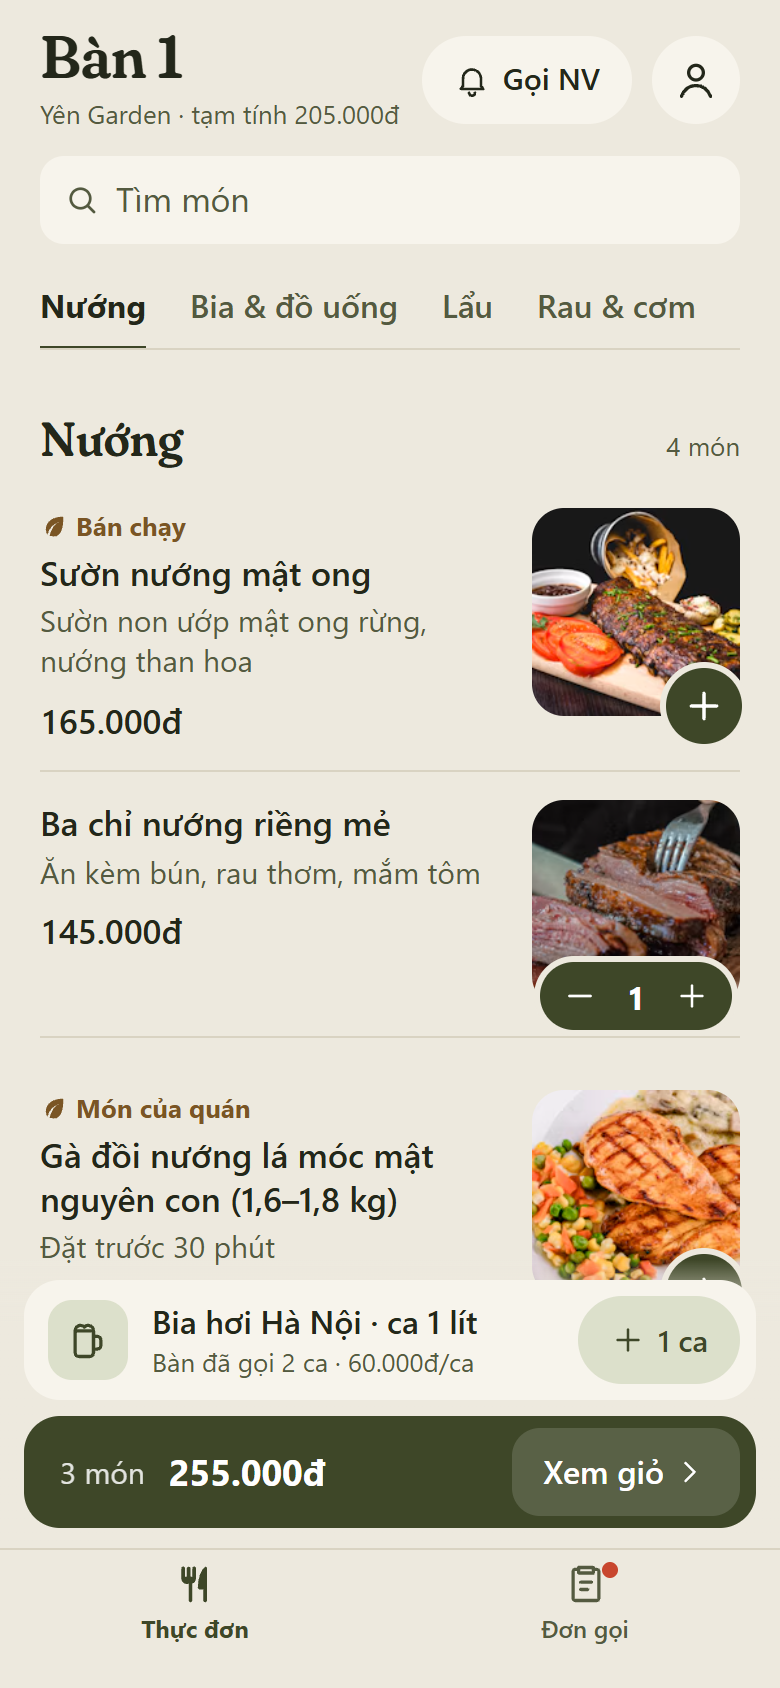
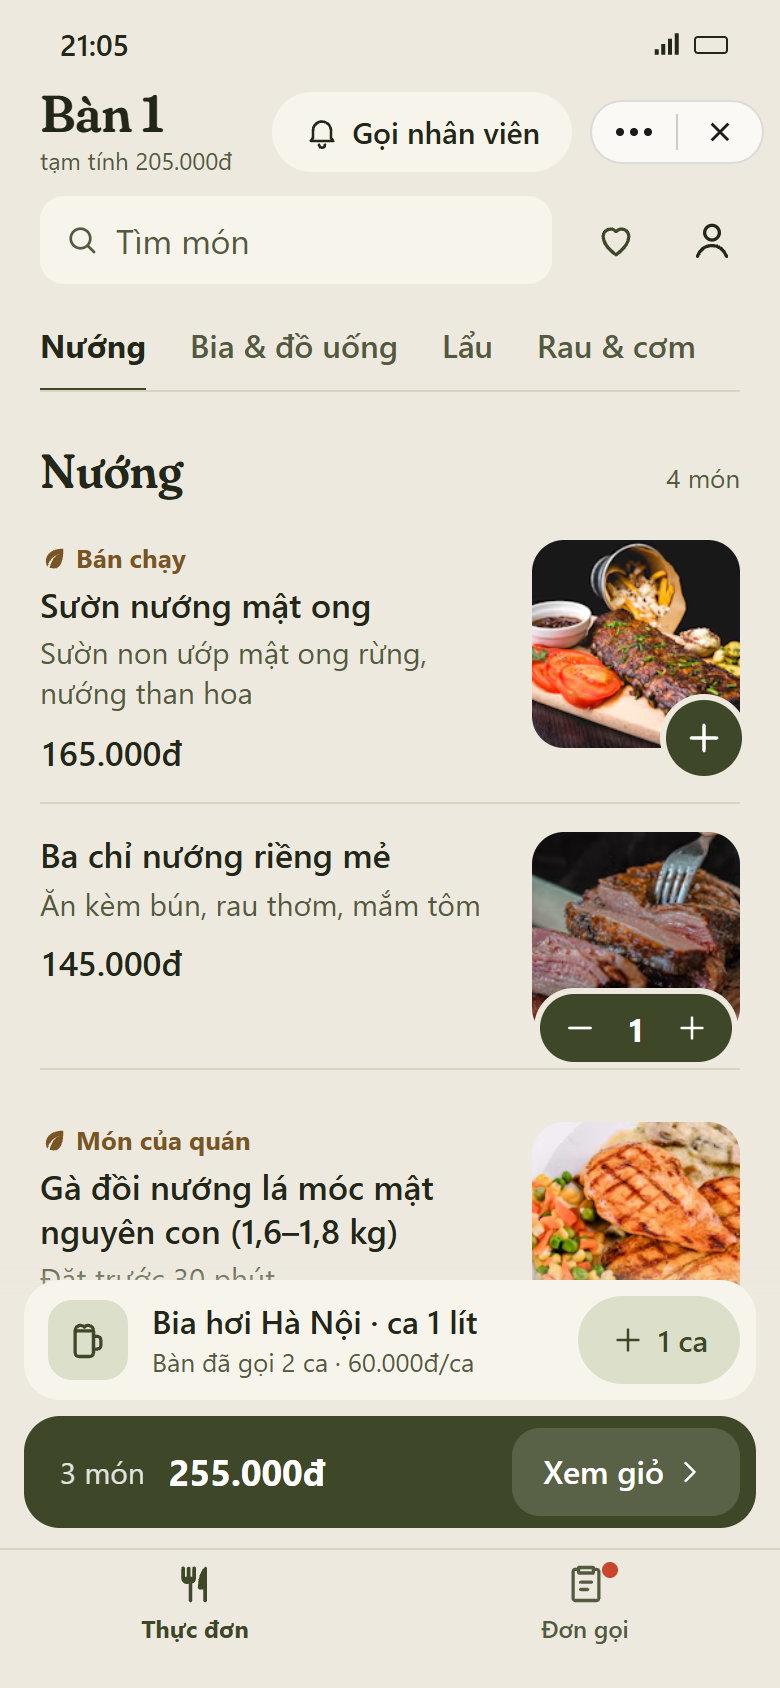
chore: ban ve HIG Yen Garden chua vung nut ... | X cua Zalo, tra lai nut Quan tam OA

diff --git a/docs/design/yen-garden/apple-hig/so-sanh.html b/docs/design/yen-garden/apple-hig/so-sanh.html
@@ -77,6 +77,27 @@
   .link { color: var(--accent); font-weight: 600; font-size: 15px; }
   .phone.night .link { color: var(--accent); }
 
+  /* Khung Zalo: thanh trạng thái máy (44) + cụm nút "··· | X" Zalo tự vẽ, không đổi được.
+     Vùng cấm: 96 px bên phải của hàng 44 px ngay dưới thanh trạng thái (như ZALO_CAPSULE_GAP trong app-toolbar.tsx). */
+  .sbar { position:absolute; top:0; left:0; right:0; height:44px; z-index: 9; display:flex; align-items:center; justify-content:space-between; padding: 0 26px 0 30px; font: 600 15px/1 system-ui, -apple-system, "Segoe UI", sans-serif; color: var(--ink); pointer-events:none; }
+  .sbar.light { color:#fff; text-shadow: 0 1px 2px #0006; }
+  .sbar .sig { display:flex; gap:5px; align-items:center; }
+  .sbar .sig i { display:block; width: 17px; height: 9px; border-radius: 2px; border: 1.5px solid currentColor; }
+  .capsule { position:absolute; z-index: 10; top: 50px; right: 8px; width: 87px; height: 32px; border-radius: 16px; background: rgba(255,255,255,.72); border: .5px solid rgba(0,0,0,.12); display:flex; align-items:center; color:#1b1b1b; }
+  .capsule span { flex:1; display:grid; place-items:center; height: 100%; }
+  .capsule span + span { border-left: .5px solid rgba(0,0,0,.18); height: 18px; }
+  .phone.night .capsule { background: rgba(40,40,40,.72); border-color: rgba(255,255,255,.14); color:#f2f2f2; }
+  .phone.night .capsule span + span { border-color: rgba(255,255,255,.25); }
+  .zone { display:none; position:absolute; z-index: 8; top: 44px; right: 0; width: 96px; height: 44px; outline: 1.5px dashed #C8462E; outline-offset: -2px; border-radius: 8px; pointer-events:none; }
+  .show-zone .zone { display:block; }
+  .r1 { height: 44px; display:flex; align-items:center; gap: 8px; padding-right: 84px; } /* 96 vùng Zalo trừ lề trang 20, cộng 8 khe */
+  .ib { width: 36px; height: 36px; border-radius: 50%; border: 0; background: transparent; color: var(--ink); display:grid; place-items:center; margin: -4px; padding: 0; } /* vùng chạm 44 nhờ lề âm */
+  .ib .ic { width: 22px; height: 22px; }
+  .ib.heart { color: var(--accent); }
+  .r2 { display:flex; align-items:center; gap: 8px; margin-top: 6px; }
+  .r2 .search { margin-top: 0; flex: 1; }
+  .hero::before { content:""; position:absolute; inset:0 0 auto 0; height: 110px; background: linear-gradient(#0007, transparent); z-index: 1; pointer-events:none; }
+
   /* Thanh tab đáy */
   .tabbar { position:absolute; left:0; right:0; bottom:0; display:grid; grid-template-columns: 1fr 1fr; padding: 6px 0 22px; background: var(--bg); border-top: 1px solid var(--line); }
   .tab { display:flex; flex-direction:column; align-items:center; gap: 3px; font-size: 12px; font-weight: 500; color: var(--ink2); position: relative; }
@@ -93,14 +114,14 @@
   .status i { width: 8px; height: 8px; border-radius: 50%; background: currentColor; display:inline-block; }
 
   /* Thực đơn */
-  .bar { position: absolute; left: 0; right: 0; top: 0; z-index: 3; background: var(--bg); padding: 14px 20px 0; }
+  .bar { position: absolute; left: 0; right: 0; top: 0; z-index: 3; background: var(--bg); padding: 44px 20px 0; }
   .bar-top { display:flex; align-items:center; gap: 10px; }
-  .table-no { font-size: 30px; line-height: 1; }
+  .table-no { font-size: 26px; line-height: 1; }
   .search { margin-top: 12px; height: 44px; border-radius: 12px; background: var(--surface); display:flex; align-items:center; gap: 8px; padding: 0 12px; color: var(--ink2); font-size: 17px; }
   .cats { display:flex; gap: 22px; margin-top: 8px; border-bottom: 1px solid var(--line); white-space: nowrap; overflow: hidden; }
   .cat { padding: 12px 0 10px; font-size: 16px; font-weight: 500; color: var(--ink2); border-bottom: 2.5px solid transparent; margin-bottom: -1px; }
   .cat.on { color: var(--ink); font-weight: 700; border-color: var(--accent); }
-  .list-top { padding-top: 186px; }
+  .list-top { padding-top: 202px; }
   .sec { display:flex; align-items: baseline; justify-content: space-between; padding: 18px 20px 4px; }
   .sec .serif { font-size: 24px; }
   .dish { display:flex; gap: 14px; padding: 14px 20px; }
@@ -172,6 +193,14 @@
     </ul>
   </div>
 
+  <div class="card">
+    <h3>Khung cố định của Zalo Mini App</h3>
+    <p style="margin:4px 0">Zalo luôn tự vẽ cụm nút <b>"··· | X"</b> ở góc phải trên (87×32 px, cách mép phải 8 px, ngay dưới thanh
+    trạng thái); mini app không đổi hay ẩn được. Bản vẽ mới vẽ cụm này vào mọi khung và giữ đúng luật app đang dùng
+    (<code>ZALO_CAPSULE_GAP = 96</code> trong <code>app-toolbar.tsx</code>): hàng 44 px dưới thanh trạng thái chừa trống 96 px bên phải,
+    nút của quán cách cụm Zalo ≥ 8 px để khách không bấm nhầm thành thoát app. Mở <code>so-sanh.html?vung</code> để thấy vùng cấm tô đỏ.</p>
+  </div>
+
   <h2>1. Chữ</h2>
   <p class="lead">Đề xuất: <b>Fraunces</b> (bản "soft", nét tròn mềm như chữ "Yên" trong logo) chỉ cho tên quán, tên bàn, tiêu đề
   mục; mọi chữ còn lại dùng <b>font hệ thống</b> của máy (Roboto trên Android, SF trên iPhone) — rõ nhất ở cỡ nhỏ, không phải tải.
@@ -210,12 +239,11 @@
   <div class="pair">
     <div class="col"><p class="cap">Hiện tại</p><img class="shot" src="hien-tai/trang-chu.png" alt="Trang chủ hiện tại"></div>
     <div class="col new"><p class="cap">Đề xuất</p>
-      <div class="phone"><div class="scroll">
+      <div class="phone"><div class="sbar light"><span>21:05</span><span class="sig"><svg viewBox="0 0 24 24" width="16" height="16" fill="currentColor"><path d="M2 20h3v-4H2zm5 0h3v-8H7zm5 0h3V8h-3zm5 0h3V4h-3z"/></svg><i></i></span></div><div class="capsule" title="Nút của Zalo (không đổi được)"><span><svg width="18" height="4" viewBox="0 0 18 4" fill="currentColor"><circle cx="2" cy="2" r="2"/><circle cx="9" cy="2" r="2"/><circle cx="16" cy="2" r="2"/></svg></span><span><svg width="18" height="18" viewBox="0 0 24 24" fill="none" stroke="currentColor" stroke-width="2"><path d="M6.5 6.5l11 11M17.5 6.5l-11 11"/></svg></span></div><div class="zone"></div><div class="scroll">
         <div class="hero"><img src="anh/banner.webp" alt="Biển hiệu Yên Garden">
-          <button class="round acct" aria-label="Tài khoản"><svg class="ic" viewBox="0 0 24 24"><circle cx="12" cy="8" r="4"/><path d="M4 21c1.5-4 4.5-6 8-6s6.5 2 8 6"/></svg></button>
         </div>
         <div class="pad">
-          <div class="serif title">Yên Garden</div>
+          <div style="display:flex;align-items:center;gap:6px"><div class="serif title" style="flex:1">Yên Garden</div><button class="ib heart" aria-label="Quan tâm quán trên Zalo"><svg class="ic" viewBox="0 0 24 24"><path d="M12 20s-7-4.4-7-10a4 4 0 0 1 7-2.6A4 4 0 0 1 19 10c0 5.6-7 10-7 10z"/></svg></button><button class="ib" aria-label="Tài khoản" style="margin-left:4px"><svg class="ic" viewBox="0 0 24 24"><circle cx="12" cy="8" r="4"/><path d="M4 21c1.5-4 4.5-6 8-6s6.5 2 8 6"/></svg></button></div>
           <div style="display:flex;align-items:center;justify-content:space-between">
             <span class="tagline">Chill · Relax · Xanh</span>
             <span class="status"><i></i>Đang mở</span>
@@ -247,7 +275,8 @@
         <li>Logo chỉ còn <b>một lần</b>: chính biển hiệu trong ảnh bìa, tràn sát mép, bo đáy. Bỏ logo nhỏ góc trên và câu "Chào mừng
           bạn đến với".</li>
         <li>Tên quán viết bằng Fraunces 36 màu ô-liu + khẩu hiệu "Chill · Relax · Xanh" — giọng của logo, nhưng là chữ thật (đọc được bằng trình đọc màn hình).</li>
-        <li>Nút tài khoản tròn 44 nổi trên ảnh. Địa chỉ, giờ, gọi quán gom một nhóm hàng; một nút chính "Đặt bàn trước".</li>
+        <li>Ảnh bìa nằm dưới thanh trạng thái và cụm nút Zalo (có lớp tối mờ ở mép trên cho chữ giờ / nút Zalo dễ thấy). Không đặt nút nào của mình ở góc phải trên — ♡ Quan tâm OA và Tài khoản ở hàng tên quán.</li>
+        <li>Địa chỉ, giờ, gọi quán gom một nhóm hàng; một nút chính "Đặt bàn trước".</li>
         <li>Nếu cần logo nhỏ ở chỗ khác (thẻ chia sẻ, màn chờ): nền trang mới dùng đúng màu kem của ảnh logo nên không còn ô mờ.</li>
       </ul>
     </div>
@@ -262,8 +291,9 @@
     <div class="notes card">
       <h3>Thay đổi</h3>
       <ul>
-        <li>Đầu màn chỉ còn thứ khách cần: <b>"Bàn 1"</b> to (Fraunces) + tạm tính, nút Gọi nhân viên có chữ, nút tài khoản. Bỏ lời chào,
-          chip Bàn, icon giỏ (giỏ đã ở dưới), dải lặp số bàn → món đầu bắt đầu ở ~240 px thay vì ~295 px.</li>
+        <li>Hàng 1 (ngang cụm nút Zalo, chừa 96 px phải): <b>"Bàn 1"</b> (Fraunces) + tạm tính, nút "Gọi nhân viên". Hàng 2: ô tìm, ♡ Quan tâm OA,
+          Tài khoản. Bỏ lời chào, chip Bàn, icon giỏ (giỏ đã ở dưới), dải lặp số bàn → tên món đầu cách thanh trạng thái ~247 px
+          (bản hiện tại ~332 px, ảnh chụp chưa có thanh trạng thái).</li>
         <li>Món: tên 17 đậm, mô tả 15, giá 17; ảnh 104 px. "Bán chạy" thành chữ nâu có lá nhỏ (không viên nhãn).</li>
         <li>Nút + đủ 44 px, viền màu nền để tách khỏi ảnh. Món đã có trong giỏ đổi thành bộ <b>− 1 +</b> ngay dưới ảnh.</li>
         <li><b>Dải gọi bia là điểm nhấn riêng của quán</b>: ghi "Bàn đã gọi 2 ca" và nút "+1 ca" màu nhạt, để nút đậm duy nhất là thanh giỏ.</li>
@@ -281,13 +311,12 @@
   <div class="pair">
     <div class="col"><p class="cap">Hiện tại</p><img class="shot" src="hien-tai/don-goi.png" alt="Đơn gọi hiện tại"></div>
     <div class="col new"><p class="cap">Đề xuất</p>
-      <div class="phone"><div class="scroll">
-        <div class="pad" style="padding-top:14px">
-          <div class="bar-top">
-            <div style="flex:1"><div class="serif" style="font-size:30px;line-height:1">Đơn gọi</div><div class="ink2" style="font-size:13px;margin-top:4px">Bàn 1 · vào lúc 12:43</div></div>
-            <button class="pill"><svg class="ic" viewBox="0 0 24 24" style="width:18px;height:18px"><path d="M6 16V11a6 6 0 0 1 12 0v5l1.5 2h-15z"/><path d="M10 20.5a2 2 0 0 0 4 0"/></svg>Gọi NV</button>
-          </div>
-          <div style="margin-top:22px" class="ink2"><span style="font-size:15px">Tạm tính</span></div>
+      <div class="phone"><div class="sbar"><span>21:05</span><span class="sig"><svg viewBox="0 0 24 24" width="16" height="16" fill="currentColor"><path d="M2 20h3v-4H2zm5 0h3v-8H7zm5 0h3V8h-3zm5 0h3V4h-3z"/></svg><i></i></span></div><div class="capsule" title="Nút của Zalo (không đổi được)"><span><svg width="18" height="4" viewBox="0 0 18 4" fill="currentColor"><circle cx="2" cy="2" r="2"/><circle cx="9" cy="2" r="2"/><circle cx="16" cy="2" r="2"/></svg></span><span><svg width="18" height="18" viewBox="0 0 24 24" fill="none" stroke="currentColor" stroke-width="2"><path d="M6.5 6.5l11 11M17.5 6.5l-11 11"/></svg></span></div><div class="zone"></div><div class="scroll">
+        <div class="pad" style="padding-top:44px">
+          <div class="r1"><div class="serif" style="font-size:28px;line-height:1">Đơn gọi</div></div>
+          <div class="r2"><div class="ink2" style="font-size:15px;flex:1">Bàn 1 · vào lúc 12:43</div>
+            <button class="pill"><svg class="ic" viewBox="0 0 24 24" style="width:18px;height:18px"><path d="M6 16V11a6 6 0 0 1 12 0v5l1.5 2h-15z"/><path d="M10 20.5a2 2 0 0 0 4 0"/></svg>Gọi nhân viên</button></div>
+          <div style="margin-top:14px" class="ink2"><span style="font-size:15px">Tạm tính</span></div>
           <div class="num" style="font-size:40px;font-weight:700;letter-spacing:-.02em;line-height:1.1">205.000đ</div>
           <div class="ink2" style="font-size:15px;margin-top:2px">2 món · 2 lượt · trả tại quầy khi về</div>
         </div>
@@ -331,13 +360,15 @@
 </main>
 
 <template id="menu-tpl">
-  <div class="bar">
-    <div class="bar-top">
-      <div style="flex:1;min-width:0"><div class="serif table-no">Bàn 1</div><div class="ink2 num" style="font-size:13px;margin-top:4px">Yên Garden · tạm tính 205.000đ</div></div>
-      <button class="pill"><svg class="ic" viewBox="0 0 24 24" style="width:18px;height:18px"><path d="M6 16V11a6 6 0 0 1 12 0v5l1.5 2h-15z"/><path d="M10 20.5a2 2 0 0 0 4 0"/></svg>Gọi NV</button>
-      <button class="round" aria-label="Tài khoản"><svg class="ic" viewBox="0 0 24 24"><circle cx="12" cy="8" r="4"/><path d="M4 21c1.5-4 4.5-6 8-6s6.5 2 8 6"/></svg></button>
+<div class="sbar"><span>21:05</span><span class="sig"><svg viewBox="0 0 24 24" width="16" height="16" fill="currentColor"><path d="M2 20h3v-4H2zm5 0h3v-8H7zm5 0h3V8h-3zm5 0h3V4h-3z"/></svg><i></i></span></div><div class="capsule" title="Nút của Zalo (không đổi được)"><span><svg width="18" height="4" viewBox="0 0 18 4" fill="currentColor"><circle cx="2" cy="2" r="2"/><circle cx="9" cy="2" r="2"/><circle cx="16" cy="2" r="2"/></svg></span><span><svg width="18" height="18" viewBox="0 0 24 24" fill="none" stroke="currentColor" stroke-width="2"><path d="M6.5 6.5l11 11M17.5 6.5l-11 11"/></svg></span></div><div class="zone"></div>  <div class="bar">
+    <div class="r1">
+      <div style="flex:1;min-width:0;white-space:nowrap"><div class="serif table-no">Bàn 1</div><div class="ink2 num" style="font-size:12px;margin-top:2px">tạm tính 205.000đ</div></div>
+      <button class="pill" style="height:40px"><svg class="ic" viewBox="0 0 24 24" style="width:18px;height:18px"><path d="M6 16V11a6 6 0 0 1 12 0v5l1.5 2h-15z"/><path d="M10 20.5a2 2 0 0 0 4 0"/></svg>Gọi nhân viên</button>
     </div>
-    <div class="search"><svg class="ic" viewBox="0 0 24 24" style="width:18px;height:18px"><circle cx="11" cy="11" r="6.5"/><path d="m16 16 4 4"/></svg>Tìm món</div>
+    <div class="r2" style="margin-top:10px">
+      <div class="search"><svg class="ic" viewBox="0 0 24 24" style="width:18px;height:18px"><circle cx="11" cy="11" r="6.5"/><path d="m16 16 4 4"/></svg>Tìm món</div>
+      <button class="ib heart" aria-label="Quan tâm quán trên Zalo" style="margin:0 2px 0 6px"><svg class="ic" viewBox="0 0 24 24"><path d="M12 20s-7-4.4-7-10a4 4 0 0 1 7-2.6A4 4 0 0 1 19 10c0 5.6-7 10-7 10z"/></svg></button><button class="ib" aria-label="Tài khoản" style="margin:0 -4px 0 2px"><svg class="ic" viewBox="0 0 24 24"><circle cx="12" cy="8" r="4"/><path d="M4 21c1.5-4 4.5-6 8-6s6.5 2 8 6"/></svg></button>
+    </div>
     <div class="cats"><span class="cat on">Nướng</span><span class="cat">Bia &amp; đồ uống</span><span class="cat">Lẩu</span><span class="cat">Rau &amp; cơm</span></div>
   </div>
   <div class="scroll list-top">
@@ -371,6 +402,7 @@
     document.getElementById(id).appendChild(document.getElementById('menu-tpl').content.cloneNode(true));
   }
   // so-sanh.html#phone=2 → chỉ hiện khung điện thoại thứ 2 (để chụp ảnh 390×844).
+  if (location.search.includes('vung')) document.body.classList.add('show-zone');
   const m = location.hash.match(/phone=(\d+)/);
   if (m) {
     const p = document.querySelectorAll('.phone')[+m[1] - 1];
